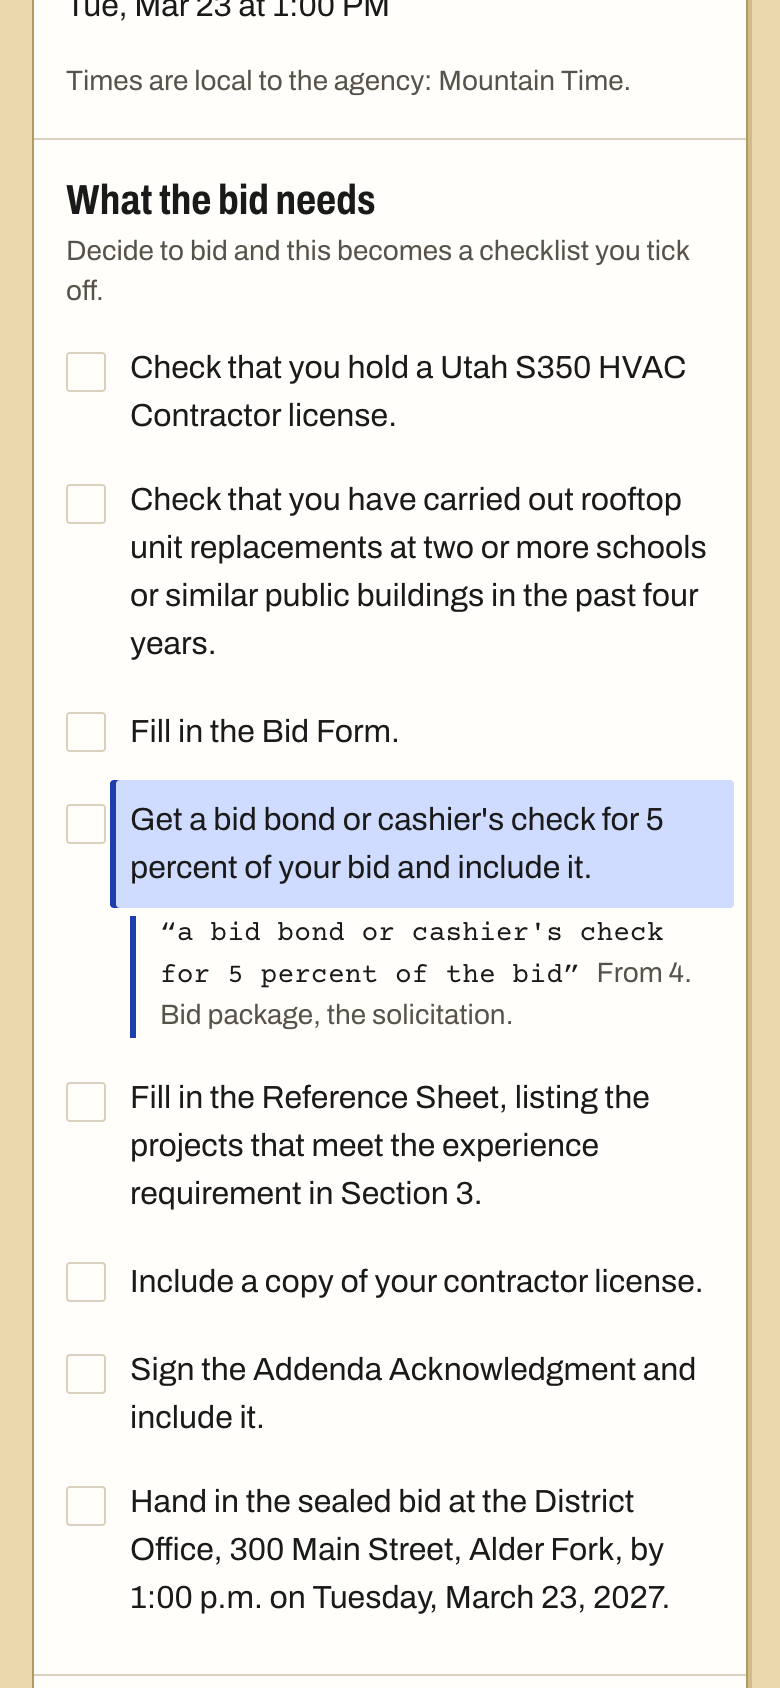
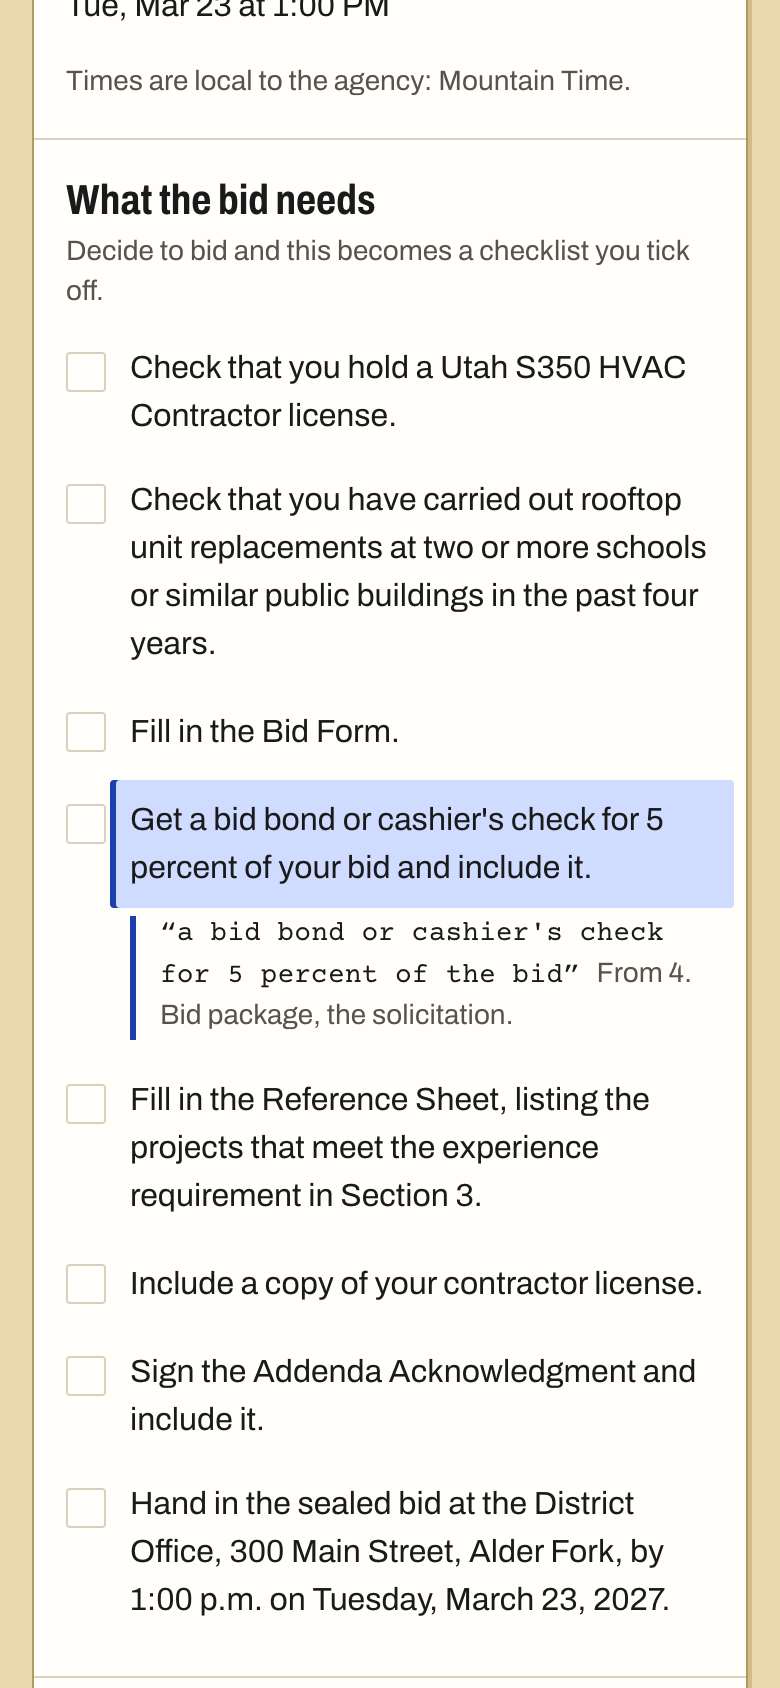
Compact the demo bar on a phone
Two short rows instead of a quarter of the first screen: the build label with
its two controls, then the demo date beside Skip to next morning. All targets
stay 44px. The laptop bar is unchanged.

diff --git a/src/components/demo-bar.tsx b/src/components/demo-bar.tsx
@@ -13,13 +13,17 @@ import { NextMorningButton } from "./next-morning";
 export function DemoBar({ today, zone, canAdvance }: { today: string | null; zone: string; canAdvance: boolean }) {
   return (
     <div className="demo-chrome bg-ink text-sm text-white">
-      <div className="mx-auto flex max-w-[86rem] flex-wrap items-center gap-x-5 gap-y-2 px-4 py-2 sm:px-6 lg:px-8">
-        <p className="min-w-0 flex-1 basis-72 leading-snug">
-          <strong className="font-bold">Demonstration build.</strong>{" "}
-          <span className="text-white/75">A fictional contractor, invented agencies and solicitations. The AI readings were recorded ahead of time.</span>
+      <div className="mx-auto flex max-w-[86rem] items-center gap-x-4 gap-y-2 px-4 py-1 sm:flex-wrap sm:gap-x-5 sm:px-6 sm:py-2 lg:px-8">
+        {/* A phone gets the short form: the sentence would cost it a quarter of the first screen. */}
+        <p className="min-w-0 flex-1 leading-snug sm:basis-72">
+          <strong className="font-bold">
+            Demonstration build<span className="max-sm:hidden">.</span>
+          </strong>{" "}
+          <span className="text-white/75 max-sm:hidden">A fictional contractor, invented agencies and solicitations. The AI readings were recorded ahead of time.</span>
         </p>
-        <Link href="/about" className="inline-flex min-h-11 items-center font-semibold underline decoration-white/40 underline-offset-4 hover:decoration-white sm:min-h-0">
-          How this demo works
+        <Link href="/about" aria-label="How this demo works" className="inline-flex min-h-11 items-center font-semibold underline decoration-white/40 underline-offset-4 hover:decoration-white sm:min-h-0">
+          <span className="sm:hidden">How it works</span>
+          <span className="max-sm:hidden">How this demo works</span>
         </Link>
         {today && (
           <form action={resetDemoAction}>
@@ -29,14 +33,16 @@ export function DemoBar({ today, zone, canAdvance }: { today: string | null; zon
       </div>
       {today && (
         <div className="border-t border-white/15 bg-white/5">
-          <div className="mx-auto flex max-w-[86rem] flex-wrap items-center gap-x-4 gap-y-2 px-4 py-2 sm:px-6 lg:px-8">
-            <p className="min-w-0 flex-1 basis-64">
-              <span className="text-white/75">In the demo it is 7:00 AM {zone} on</span> <strong className="font-bold">{today}</strong>
+          <div className="mx-auto flex max-w-[86rem] items-center gap-x-4 gap-y-2 px-4 py-2 sm:flex-wrap sm:px-6 lg:px-8">
+            <p className={`min-w-0 leading-snug sm:flex-1 sm:basis-64 ${canAdvance ? "flex-1" : "max-sm:flex-none"}`}>
+              <span className="text-white/75 sm:hidden">All invented. Demo date:</span>
+              <span className="text-white/75 max-sm:hidden">In the demo it is 7:00 AM {zone} on</span>{" "}
+              <strong className="font-bold max-sm:block">{today}</strong>
             </p>
             {canAdvance ? (
-              <NextMorningButton className="min-h-11 cursor-pointer rounded-[3px] bg-white px-4 font-bold text-ink hover:bg-paper disabled:opacity-60 sm:min-h-9" />
+              <NextMorningButton className="min-h-11 flex-none cursor-pointer rounded-[3px] bg-white px-4 font-bold text-ink hover:bg-paper disabled:opacity-60 sm:min-h-9" />
             ) : (
-              <p className="text-white/75">The demo calendar ends here. Reset to start again.</p>
+              <p className="min-w-0 leading-snug text-white/75 max-sm:flex-1 max-sm:text-right">The demo calendar ends here. Reset to start again.</p>
             )}
           </div>
         </div>
@@ -48,7 +54,7 @@ export function DemoBar({ today, zone, canAdvance }: { today: string | null; zon
 function ResetButton() {
   const { pending } = useFormStatus();
   return (
-    <button type="submit" disabled={pending} className="min-h-11 cursor-pointer rounded-[3px] border border-white/40 px-3 font-semibold hover:border-white disabled:opacity-60 sm:min-h-9">
+    <button type="submit" disabled={pending} className="min-h-11 flex-none cursor-pointer rounded-[3px] border border-white/40 px-3 font-semibold hover:border-white disabled:opacity-60 sm:min-h-9">
       {pending ? "Resetting" : "Reset demo"}
     </button>
   );
